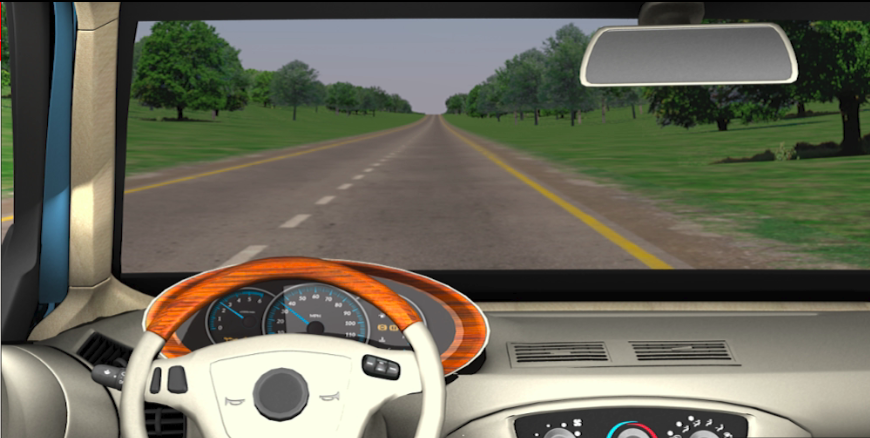
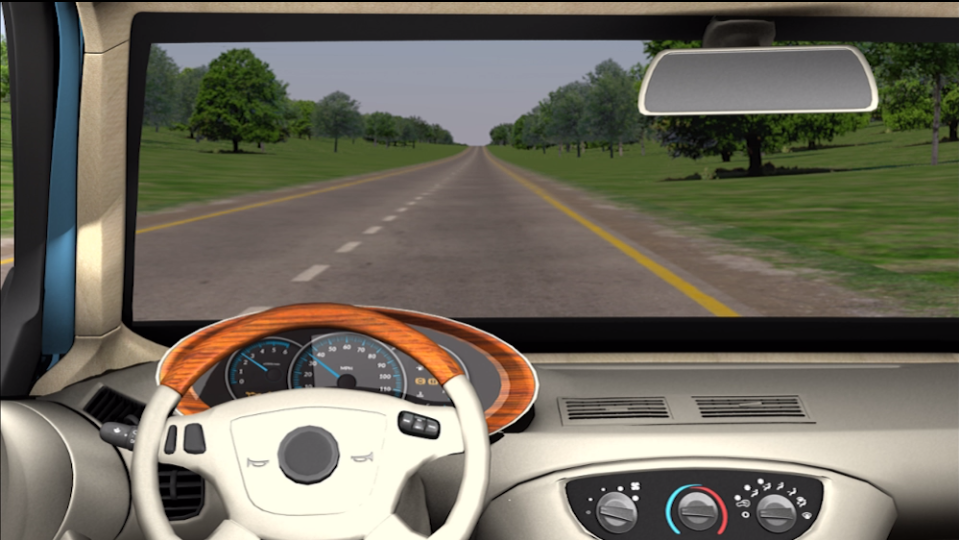
video changes

diff --git a/src/assets/video/brake_pull_driving_video.html b/src/assets/video/brake_pull_driving_video.html
@@ -16,7 +16,7 @@
 
 <body>
     <div id="container">
-        <video poster="../img/module/poster.png" id="videoPlayer" class="video-js vjs-default-skin" controls preload="none" width="1000" height="575" poster="" data-setup="{}">
+        <video poster="../img/module/poster.png" id="videoPlayer" class="video-js vjs-default-skin" controls preload="none" width="1000" height="540" poster="" data-setup="{}">
 				<source id="mp4Vid" src="brake_pull_driving_video.mp4" type="video/mp4">
 				<track id="capVid" kind="captions" src="uconcepts.captions.vtt" srclang="en" label="English"></track>
                 <p class="vjs-no-js">To view this video please enable JavaScript, and consider upgrading to a web browser that <a href="http://videojs.com/html5-video-support/" target="_blank">supports HTML5 video</a></p>
@@ -55,4 +55,10 @@
     -moz-border-radius: 0.8em;
     border-radius: 0.8em;
 }
+    .video-js .vjs-tech {
+        position: absolute;
+        top: 0;
+        left: 0;
+        width: 100%;
+    }
 </style>

diff --git a/src/sim-core/components/video-page/VideoPlayer.vue b/src/sim-core/components/video-page/VideoPlayer.vue
@@ -72,6 +72,7 @@ export default {
 .videoFrame {
 	width: 100%;
 	height: 100%;
+	top: 28px;
 	position: relative;
 	z-index: 9;
 }
